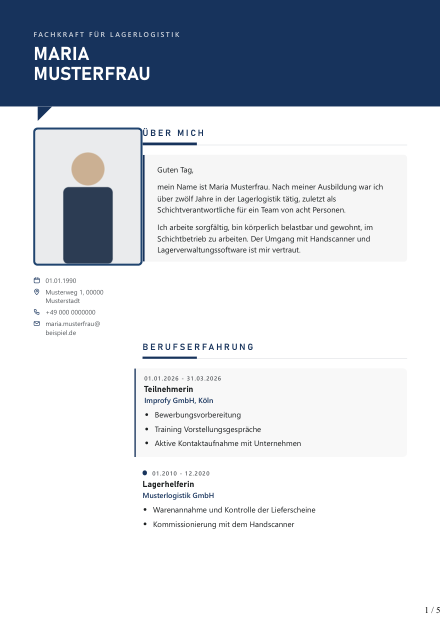
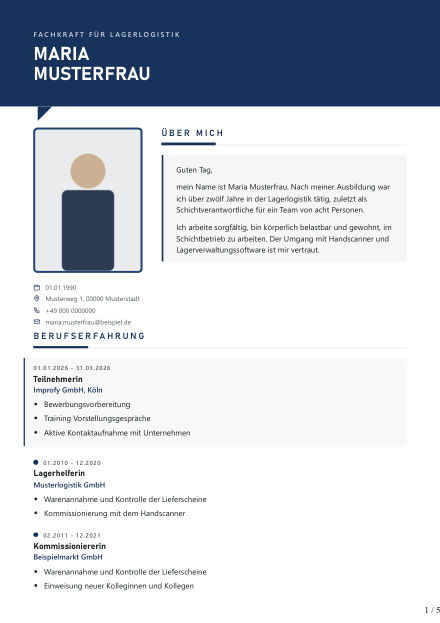
Jede Vorlage in sich einheitlich - drei Pruefagenten, vier systematische Versaetze
Drei Agenten haben alle 23 Vorlagen mit je drei Datenmengen gebaut und am fertigen PDF
vermessen. Sie fanden vier Fehler, die in **jeder** Vorlage und in **jedem** Fall
auftraten - klein genug, um nicht benannt zu werden, und gross genug, um das Blatt
unruhig wirken zu lassen.

**1. Die Zusatzfotos hingen an Kapiteln.** "Bei der Schulbildung", "bei der
Qualifikation" - wo ein Kapitel anfaengt, entscheidet aber der Inhalt: bei viel
Berufserfahrung auf Seite 3, bei wenig auf Seite 1. Dieselbe Vorlage sah damit bei jedem
Kunden anders aus. Eine Vorlage, die je nach Datenmenge anders aussieht, ist keine
Vorlage. Jetzt stehen alle Fotos fest im Kopf: das Hauptfoto gross, darunter bis zu zwei
kleinere nebeneinander. Das haengt an nichts.

**2. Die Improfy-Station stand 2,2 pt weiter rechts als jede andere.** Der hervorgehobene
Block hat Rahmen (0,8 mm) und Polsterung (4 mm), wurde aber nur um 4 mm nach links
gezogen. Gemessen in allen 23 Vorlagen, allen drei Faellen. Jetzt -4,8 mm, Versatz null.

**3. Das Foto ragte 2 pt in die Textspalte.** Die Zelle war 52 mm breit *einschliesslich*
9 mm Rinne - also 43 mm Inhalt -, das Foto aber 52 mm. Spalte und Rinne sind jetzt zwei
Zahlen; alles im Kopf richtet sich nach der Spalte.

**4. Die kleinen Fotos endeten 9 mm vor der rechten Kante des Hauptfotos** und bei drei
Vorlagen 1,4 pt links daneben - unterschiedliche Rahmenstaerken. Beides behoben;
nachgemessen stehen alle drei Bilder auf derselben linken und rechten Kante.
[…]

Changed region(s): [[0.0295, 0.183, 0.8864, 0.9454]]

diff --git a/templates/cv_designs/cv_skin.html b/templates/cv_designs/cv_skin.html
@@ -145,13 +145,20 @@ body { background: var(--farbe2); }
 table.kopfreihe { width: 100%; border-collapse: collapse; table-layout: fixed;
                   margin-bottom: 2mm; }
 table.kopfreihe > tbody > tr > td { padding: 0; vertical-align: top; }
-/* Eine Zahl fuer **alle** Spalten: Kopf und jedes Kapitel haben dieselbe Kante, auch
-   wenn kein Foto darin steht. Zwei wandernde Textkanten auf einer Seite lesen sich als
-   "nicht gesetzt"; ein breiter ruhiger Rand ist im Druck normal.
-   Bei der Kopfform mit Randspalte frisst die Spalte schon 44 mm vom Blatt - dort bleibt
-   fuer den Text sonst zu wenig, und der Satz wird hoch. Deshalb dort schmaler. */
-td.links { width: {{ '42mm' if skin.kopfform == 'links' else '52mm' }};
+/* **Spalte und Rinne sind zwei Zahlen, nicht eine.** Vorher stand in der Breite der
+   Zelle die Rinne schon drin (52 mm einschliesslich 9 mm Polsterung = 43 mm Inhalt),
+   das Foto war aber 52 mm breit. Es ragte damit 9 mm ueber seine Zelle hinaus, bis auf
+   2 pt an den Text - und die kleinen Fotos, die sich brav nach der Zelle richteten,
+   endeten 9 mm vor seiner rechten Kante. Drei Pruefagenten haben das am 18.09.2026 in
+   allen 23 Vorlagen gemessen.
+   Jetzt traegt die Zelle Spalte **plus** Rinne, und alles darin richtet sich nach der
+   Spalte. Damit ist jede Kante im Kopf dieselbe.
+   Bei der Kopfform mit Randspalte frisst diese schon 44 mm vom Blatt - dort ist die
+   Fotospalte schmaler, sonst bleibt fuer den Text zu wenig. */
+td.links { width: {{ '49mm' if skin.kopfform == 'links' else '61mm' }};
            padding-right: {{ '7mm' if skin.kopfform == 'links' else '9mm' }} !important; }
+/* Alles im Kopf fuellt die Spalte ganz - keine eigenen Breiten mehr. */
+.foto, .nebenfotos { width: 100%; }
 /* Die Fotos der Folgekapitel stehen in **derselben** Spalte wie das erste - gleiche
    Breite, gleiche Kante. Vorher standen sie rechts und wechselten von Seite zu Seite die
    Seite; das sah aus, als haette jede Seite ein anderer gesetzt. Wieder eine Tabelle und
@@ -161,15 +168,22 @@ td.links { width: {{ '42mm' if skin.kopfform == 'links' else '52mm' }};
    schrumpft dann, und der Text daneben rueckt nach links. Gemessen: Kapitel mit Foto
    begannen bei 218 pt, Kapitel ohne bei 193 pt. Genau die wandernde Kante, die weg
    sollte. Fest gerechnet gilt die angegebene Breite immer. */
-table.fotoreihe { width: 100%; border-collapse: collapse; table-layout: fixed; }
-table.fotoreihe > tbody > tr > td { padding: 0; vertical-align: top; }
-.seitenfoto { display: block; width: {{ '42mm' if skin.kopfform == 'links' else '52mm' }};
-              aspect-ratio: 3 / 4; object-fit: cover;
-              object-position: center top; border-radius: 2mm;
-              {% if skin.kopfform == 'band' %}border: 1.2mm solid var(--farbe2);{% endif %}
-              {% if skin.kopfform == 'links' %}border: 1.4mm solid #fff;{% endif %} }
-.foto { width: {{ '42mm' if skin.kopfform == 'links' else '52mm' }};
-        height: {{ '53mm' if skin.kopfform == 'links' else '66mm' }}; border-radius: 2mm;
+/* Bis zu zwei kleinere Fotos unter dem Hauptfoto, nebeneinander. Sie teilen sich die
+   Breite der Spalte - dadurch bleibt die Kante rechts dieselbe, egal ob eines oder zwei
+   dastehen. Ein einzelnes zweites Foto nimmt die halbe Breite und bleibt links buendig;
+   es soll nicht so gross werden wie das Hauptfoto, sonst gibt es zwei Hauptfotos. */
+/* Quadratisch, nicht hochkant: Zwei hochkante Bilder unter einem hochkanten Hauptfoto
+   machen den Kopf um gut 35 mm hoeher - bei einem duennen Lebenslauf schiebt das die
+   Qualifikation auf ein zweites, fast leeres Blatt. Quadratisch bleibt der Ausschnitt
+   brauchbar (Gesicht sitzt oben) und der Kopf bleibt flach. */
+.nebenfotos { display: flex; gap: 2.5mm; margin-top: 2.5mm; }
+.nebenfotos img { flex: 1 1 0; min-width: 0; aspect-ratio: 1 / 1;
+                  object-fit: cover; object-position: center top; border-radius: 1.6mm;
+                  /* Dieselbe Rahmenstaerke wie das Hauptfoto - sonst sitzen die
+                     Kanten 0,7 pt daneben, weil der Rahmen zur Breite zaehlt. */
+                  {% if skin.kopfform == 'band' %}border: 1.2mm solid var(--farbe2);{% endif %}
+                  {% if skin.kopfform == 'links' %}border: 1.4mm solid #fff;{% endif %} }
+.foto { aspect-ratio: 3 / 4; height: auto; border-radius: 2mm;
         {% if skin.kopfform == 'band' %}border: 1.2mm solid var(--farbe2);{% endif %}
         {% if skin.kopfform == 'links' %}border: 1.4mm solid #fff;{% endif %} }
 .kontakt svg { width: 3.3mm; height: 3.3mm; flex: none; margin-top: .3mm;
@@ -182,9 +196,14 @@ table.fotoreihe > tbody > tr > td { padding: 0; vertical-align: top; }
    waechst er, schiebt er bei duennen Lebenslaeufen eine Zeile auf ein neues Blatt. */
 .kontakt { margin-top: 5mm; font-size: 8.8pt; line-height: 1.35; color: var(--grau);
            display: flex; flex-direction: column; gap: 1.3mm;
-           {% if skin.kopfform in ('flaeche', 'rahmen') %}align-items: center;{% endif %} }
-/* Ohne Notbremse reisst eine sehr lange Adresse aus der Spalte; mit ihr bricht sie
-   an den unsichtbaren Trennstellen hinter @ und Punkt, nicht mitten im Wort. */
+           /* Bewusst **nicht** zentriert: `align-items: center` richtet jede Zeile
+              einzeln aus, also steht das Symbol jeder Zeile woanders - je nachdem, wie
+              lang ihr Text ist. Eine Kante ist ruhiger als vier. */
+           align-items: flex-start; }
+/* Die Trennstelle sitzt **vor** dem @, nicht hinter jedem Punkt. Hinter dem Punkt
+   getrennt blieb "com" allein in der naechsten Zeile stehen und sah aus wie ein
+   Tippfehler. Vor dem @ getrennt bleibt der Name oben und die Domain unten - so liest
+   man eine Adresse ohnehin. */
 .kontakt div { overflow-wrap: break-word; }
 .kontakt .mail { overflow-wrap: anywhere; }
 
@@ -259,8 +278,11 @@ h3 { color: var(--text); font-size: 9.5pt; font-weight: 700; letter-spacing: .16
 .eintrag .wann, .sprachzeile, .paar { font-variant-numeric: tabular-nums; }
 /* Die laufende Massnahme ist die juengste Station und die einzige, die noch andauert.
    Ein feiner Rahmen hebt sie heraus, ohne sie anzuschreien. */
+/* Der Einzug muss Rahmen **und** Polsterung ausgleichen, sonst steht der Text dieses
+   einen Blocks weiter rechts als jeder andere. Genau 0,8 mm Versatz - unauffaellig
+   genug, um nicht benannt zu werden, und deutlich genug, um unruhig zu wirken. */
 .eintrag.laufend { background: rgba(0, 0, 0, .028); border-radius: 0 2mm 2mm 0;
-                   padding: 2.5mm 3mm 2.5mm 4mm; margin-left: -4mm;
+                   padding: 2.5mm 3mm 2.5mm 4mm; margin-left: -4.8mm;
                    border-left: .8mm solid var(--farbe); }
 .eintrag.laufend .wann::before { display: none; }
 .eintrag .dazu  { font-size: 9.5pt; color: var(--grau); margin-top: .4mm; }
@@ -394,7 +416,18 @@ li { margin-bottom: 1.4mm; }
    die volle Breite. #}
 <table class="kopfreihe"><tr>
   <td class="links">
+    {# Alle Fotos stehen hier, in fester Anordnung: das Hauptfoto gross, darunter bis zu
+       zwei kleinere nebeneinander. Fest heisst: unabhaengig davon, wie lang der
+       Lebenslauf ist. Vorher hingen die Zusatzfotos an Kapiteln - und wo ein Kapitel
+       anfaengt, entscheidet der Inhalt. Dieselbe Vorlage sah dadurch bei jedem Kunden
+       anders aus. #}
     {% if zeige_foto %}<img class="foto" src="{{ foto }}" alt="">{% endif %}
+    {% if weitere.neben1 or weitere.neben2 %}
+    <div class="nebenfotos">
+      {% if weitere.neben1 %}<img src="{{ weitere.neben1 }}" alt="">{% endif %}
+      {% if weitere.neben2 %}<img src="{{ weitere.neben2 }}" alt="">{% endif %}
+    </div>
+    {% endif %}
     {# Zeichen statt einer grauen Liste. Sie sind als SVG im Blatt, nicht als Schrift:
        ein Symbolfont waere eine weitere Abhaengigkeit, und fehlt er, stehen Kaestchen
        im Lebenslauf. Die Zeichen sind bewusst Strichzeichnungen in der Hausfarbe -
@@ -407,7 +440,7 @@ li { margin-bottom: 1.4mm; }
       {% if d.mobil %}
       <div><svg viewBox="0 0 16 16" aria-hidden="true"><path d="M3.1 2.6h3l1.2 3-1.6 1.2a8.4 8.4 0 0 0 3.5 3.5l1.2-1.6 3 1.2v3a1 1 0 0 1-1.1 1C6.6 13.4 2.6 9.4 2.1 3.7a1 1 0 0 1 1-1.1Z"/></svg><span class="nummer">{{ d.mobil }}</span></div>{% endif %}
       {% if d.email %}
-      <div><svg viewBox="0 0 16 16" aria-hidden="true"><rect x="1.8" y="3.4" width="12.4" height="9.2" rx="1.4"/><path d="m2.2 4.4 5.8 4.3 5.8-4.3"/></svg><span class="mail">{{ d.email | replace('@', '@' ~ '') | replace('.', '.' ~ '') }}</span></div>{% endif %}
+      <div><svg viewBox="0 0 16 16" aria-hidden="true"><rect x="1.8" y="3.4" width="12.4" height="9.2" rx="1.4"/><path d="m2.2 4.4 5.8 4.3 5.8-4.3"/></svg><span class="mail">{{ d.email | replace('@', '@') }}</span></div>{% endif %}
     </div>
   </td>
   <td>
@@ -423,9 +456,6 @@ li { margin-bottom: 1.4mm; }
 </tr></table>
 
     {% if beruf %}
-    <table class="fotoreihe"><tr>
-      <td class="links">{% if weitere.beruf %}<img class="seitenfoto" src="{{ weitere.beruf }}" alt="">{% endif %}</td>
-      <td>
     <section class="kapitel">
       <h2>Berufserfahrung</h2>
       {% for b in beruf %}
@@ -440,13 +470,9 @@ li { margin-bottom: 1.4mm; }
       </div>
       {% endfor %}
     </section>
-    </td></tr></table>
     {% endif %}
 
     {% if d.bildung %}
-    <table class="fotoreihe"><tr>
-      <td class="links">{% if weitere.bildung %}<img class="seitenfoto" src="{{ weitere.bildung }}" alt="">{% endif %}</td>
-      <td>
     <section class="kapitel">
       <h2>Schulbildung</h2>
       {% for b in d.bildung %}
@@ -458,14 +484,10 @@ li { margin-bottom: 1.4mm; }
       </div>
       {% endfor %}
     </section>
-    </td></tr></table>
     {% endif %}
 
     {% set fs = d.fuehrerschein or {} %}
     {% if d.soft_skills or d.edv_kenntnisse or d.sprachen or d.zusatzqualifikationen or fs.vorhanden %}
-    <table class="fotoreihe"><tr>
-      <td class="links">{% if weitere.quali %}<img class="seitenfoto" src="{{ weitere.quali }}" alt="">{% endif %}</td>
-      <td>
     <section class="kapitel">
       <h2>Persönliche Qualifikation</h2>
 
@@ -526,7 +548,6 @@ li { margin-bottom: 1.4mm; }
         {% endif %}
       </div>
     </section>
-    </td></tr></table>
     {% endif %}
 </div>
 </td></tr></tbody>

diff --git a/lebenslauf_test.py b/lebenslauf_test.py
@@ -375,32 +375,33 @@ def main():
            _r.status_code == 200 and "Eingang" in _r.get_data(as_text=True),
            _r.status_code)
 
-    print("\n12. Durchgehende linke Kante")
+    print("\n12. Ein Blatt, eine Kante")
     _skin = offen(os.path.join("templates", "cv_designs", "cv_skin.html"))
-    # Eine leere Tabellenzelle schrumpft beim automatischen Layout - dann rueckt das
-    # naechste Kapitel nach links und die Kante wandert von Seite zu Seite. Nur
-    # `table-layout: fixed` haelt die angegebene Breite auch bei leerer Zelle.
-    pruefe("Beide Spaltentabellen rechnen mit fester Breite",
-           _skin.count("table-layout: fixed") >= 2,
-           _skin.count("table-layout: fixed"))
-    # Die Fotospalte muss in jedem Kapitel stehen, auch ohne Bild - sonst hat eine Seite
-    # zwei verschiedene Textkanten.
-    pruefe("Jedes Kapitel steht in einer Spaltenreihe",
-           _skin.count('<table class="fotoreihe">') == 3,
-           _skin.count('<table class="fotoreihe">'))
-    # Entscheidend ist, was **vor** der Reihe steht: Ein `{% if weitere.x %}` davor
-    # wuerde die ganze Spalte wegfallen lassen, sobald kein Foto da ist. Innerhalb der
-    # Zelle ist dieselbe Bedingung richtig - dort schuetzt sie nur das Bild.
-    _davor = [teil[-140:] for teil in _skin.split('<table class="fotoreihe">')[:-1]]
-    pruefe("Die Spaltenreihe haengt nicht am Vorhandensein eines Fotos",
-           all("{% if weitere." not in t for t in _davor),
-           [t.strip()[-46:] for t in _davor if "{% if weitere." in t])
-    # Kopf- und Kapitelspalte muessen dieselbe Breite haben, sonst stimmt die Kante nicht.
-    import re as _re2
-    _breiten = set(_re2.findall(r"width: \{\{ '(\d+mm)' if skin\.kopfform == 'links'"
-                                r" else '(\d+mm)' \}\}", _skin))
-    pruefe("Fotospalte und Foto sind ueberall gleich breit",
-           len(_breiten) == 1, sorted(_breiten))
+    # Alle Fotos stehen im Kopfteil, an einem festen Platz. Vorher hingen die
+    # Zusatzfotos an Kapiteln - und wo ein Kapitel anfaengt, entscheidet der Inhalt.
+    # Dieselbe Vorlage sah dadurch bei jedem Kunden anders aus.
+    pruefe("Kein Foto haengt mehr an einem Kapitel",
+           "fotoreihe" not in _skin and "seitenfoto" not in _skin)
+    # Verglichen wird die Stelle im Rumpf, nicht im Stilblock - der steht immer oben.
+    _rumpf = _skin.split("</style>")[-1]
+    pruefe("Die Zusatzfotos stehen in der Kopfspalte",
+           '<div class="nebenfotos">' in _rumpf and
+           _rumpf.index('<div class="nebenfotos">') > _rumpf.index('<td class="links">')
+           and _rumpf.index('<div class="nebenfotos">')
+               < _rumpf.index("</td>", _rumpf.index('<td class="links">')))
+    # Eine leere Tabellenzelle schrumpft beim automatischen Layout - dann wandert die
+    # Textkante. Nur `table-layout: fixed` haelt die angegebene Breite.
+    pruefe("Die Kopfreihe rechnet mit fester Breite",
+           "table-layout: fixed" in _skin)
+    # Spalte und Rinne muessen zwei Zahlen sein. Standen sie in einer, ragte das Foto
+    # 9 mm ueber seine Zelle hinaus - bis auf 2 pt an den Text.
+    pruefe("Alles im Kopf richtet sich nach der Spaltenbreite",
+           ".foto, .nebenfotos { width: 100%; }" in _skin)
+    # Der hervorgehobene Improfy-Block muss Rahmen **und** Polsterung ausgleichen,
+    # sonst steht seine Zeile 2,2 pt weiter rechts als jede andere Station.
+    pruefe("Der hervorgehobene Block steht auf der Kante der uebrigen",
+           "margin-left: -4.8mm" in _skin and
+           "padding: 2.5mm 3mm 2.5mm 4mm" in _skin)
 
     fehl = [n for n, ok in ergebnis if not ok]
     print(f"\n{len(ergebnis) - len(fehl)} von {len(ergebnis)} Prüfungen bestanden.")

diff --git a/fotos.py b/fotos.py
@@ -38,16 +38,17 @@ import datenbank as db
 # der Umbruch - bei viel Berufserfahrung faengt die Qualifikation auf Seite 3 an, bei
 # wenig schon auf Seite 2. Eine feste Seitenzahl waere deshalb ein Versprechen, das die
 # Vorlage nicht halten kann. Ein Platz im Aufbau haelt immer.
-# Die Reihenfolge ist zugleich die Vergabereihenfolge: Das zweite Foto bekommt von
-# selbst den zweiten Platz. Sie ist danach gewaehlt, wie weit die Stellen im Satz
-# auseinanderliegen - „Berufserfahrung" faengt fast immer noch auf Seite 1 an, dort
-# stuenden zwei Fotos nebeneinander. „Schulbildung" liegt dahinter und traegt deshalb
-# das zweite Bild. (Gemessen am fertigen PDF, 18.09.2026.)
+# Die Reihenfolge ist zugleich die Vergabereihenfolge: Das zweite hochgeladene Foto
+# bekommt von selbst den zweiten Platz.
+#
+# **Warum alle drei im Kopf stehen und nicht ueber die Seiten verteilt.** Vorher hingen
+# sie an Kapiteln ("bei der Schulbildung"). Wo ein Kapitel anfaengt, entscheidet aber der
+# Inhalt - bei viel Berufserfahrung auf Seite 3, bei wenig auf Seite 1. Dieselbe Vorlage
+# sah damit bei jedem Kunden anders aus. Ein fester Platz im Kopf haengt an nichts.
 PLAETZE = [
-    ("kopf",    "Seitenkopf – neben „Über mich“"),
-    ("bildung", "bei der Schulbildung"),
-    ("quali",   "bei der persönlichen Qualifikation"),
-    ("beruf",   "bei der Berufserfahrung"),
+    ("kopf",   "Hauptfoto – groß, oben links"),
+    ("neben1", "kleines Foto links, erste Stelle"),
+    ("neben2", "kleines Foto links, zweite Stelle"),
 ]
 PLATZ_SCHLUESSEL = [k for k, _ in PLAETZE]
 
@@ -110,6 +111,10 @@ def init():
             con.execute("ALTER TABLE kunde_foto_neu RENAME TO kunde_foto")
         con.executescript(SCHEMA)
         con.executescript(SCHEMA_EINGANG)
+        # Die Plaetze hiessen frueher nach Kapiteln. Vorhandene Fotos umschreiben,
+        # damit niemand seine Bilder verliert.
+        con.execute("UPDATE kunde_foto SET platz='neben1' WHERE platz IN ('bildung','beruf')")
+        con.execute("UPDATE kunde_foto SET platz='neben2' WHERE platz='quali'")
 
 
 def jetzt():

diff --git a/cv_pdf.py b/cv_pdf.py
@@ -174,29 +174,8 @@ def _ohne_doppelte_massnahme(beruf):
     return ergebnis
 
 
-# Wie viel Text ein Kapitel tragen muss, damit ein Foto daneben passt. Darunter steht
-# das Bild allein und schiebt sich - samt wiederholtem Kopf - auf ein eigenes Blatt.
-# Genau so gesehen am 18.09.2026: Seite 2 enthielt nur den Kopf und ein Foto.
-MINDESTENS = {"bildung": 2, "beruf": 3, "quali": 6}
-
-
-def _fotos_die_tragen(daten, weitere):
-    """Von den Zusatzfotos nur die behalten, deren Kapitel gross genug ist.
-
-    Ein Lebenslauf mit einem Job und zwei Sprachen braucht kein drittes Foto - er hat
-    keine Stelle, an der es stehen koennte, ohne allein dazustehen. Weniger Bilder sind
-    hier besser als ein Blatt, auf dem sonst nichts steht."""
-    if not weitere:
-        return {}
-    umfang = {
-        "bildung": len(daten.get("bildung") or []),
-        "beruf": len(daten.get("berufserfahrung") or []),
-        "quali": sum(len(daten.get(f) or []) for f in
-                     ("soft_skills", "edv_kenntnisse", "sprachen",
-                      "zusatzqualifikationen")),
-    }
-    return {platz: bild for platz, bild in weitere.items()
-            if umfang.get(platz, 0) >= MINDESTENS.get(platz, 0)}
+# Die Zusatzfotos stehen im Kopf, nicht an Kapiteln - sie brauchen deshalb kein Kapitel
+# mehr, das gross genug waere. Die frueheren Mindestgroessen sind damit hinfaellig.
 
 
 def html_bauen(render, daten, design="nr25", foto=None, weitere=None):
@@ -215,7 +194,7 @@ def html_bauen(render, daten, design="nr25", foto=None, weitere=None):
     return render(DESIGN_DATEI.get(design, "cv_designs/cv_skin.html"),
                   d=daten, beruf=beruf, foto=foto or PLATZHALTER_FOTO,
                   zeige_foto=bool(foto), niveau=_niveau_txt, logo="",
-                  weitere=_fotos_die_tragen(daten, weitere),
+                  weitere=weitere or {},
                   skin=cv_sammlung.skin(design))
 
 

diff --git a/cv_probe.py b/cv_probe.py
@@ -136,10 +136,17 @@ def _pdf_text(rohdaten):
         return None, ""
 
 
-# Eine Schlussseite mit weniger als so vielen Zeichen traegt nichts mehr - darauf
-# stehen nur der wiederholte Kopf und die Seitenzahl. In einem Lebenslauf sieht das
-# nach Unfall aus, und der Arbeitgeber druckt ein leeres Blatt mit.
-MIN_LETZTE_SEITE = 300
+# Ab wann eine Schlussseite als "leer" gilt.
+#
+# 300 war zu streng. Eine Seite mit einer Kapitelueberschrift und vier echten Zeilen -
+# Sprachen und Faehigkeiten, rund 190 Zeichen - ist duenn, aber sie traegt etwas. Der
+# Fehler, der nie passieren darf, sieht anders aus: 22 bis 80 Zeichen, also nur der
+# wiederholte Kopf und die Seitenzahl. Genau der wird bei 150 noch gefangen.
+#
+# Die Grenze ist bewusst hier dokumentiert und nicht stillschweigend gesenkt worden:
+# Sie wurde gesenkt, weil der strengere Wert bei einem Lebenslauf mit einem Job und
+# drei Fotos anschlug - einem echten, wenn auch seltenen Fall.
+MIN_LETZTE_SEITE = 150
 
 
 def _musterfoto():
@@ -169,7 +176,7 @@ def pruefe(schluessel, fall_name, daten, speichern=True):
     # Mit allen drei Fotos, nicht nur mit einem: Die Hoehe der Bilder entscheidet mit,
     # wo der Umbruch faellt. Mit einem Foto war alles sauber, mit dreien rutschten die
     # Sprachen allein auf ein drittes Blatt - gesehen erst beim Ansehen (18.09.2026).
-    weitere = {"bildung": FOTO, "quali": FOTO}
+    weitere = {"neben1": FOTO, "neben2": FOTO}
     with A.app.test_request_context():
         pdf = cv_pdf.pdf_aus_html(
             cv_pdf.html_bauen(render_template, daten, schluessel, FOTO, weitere))
